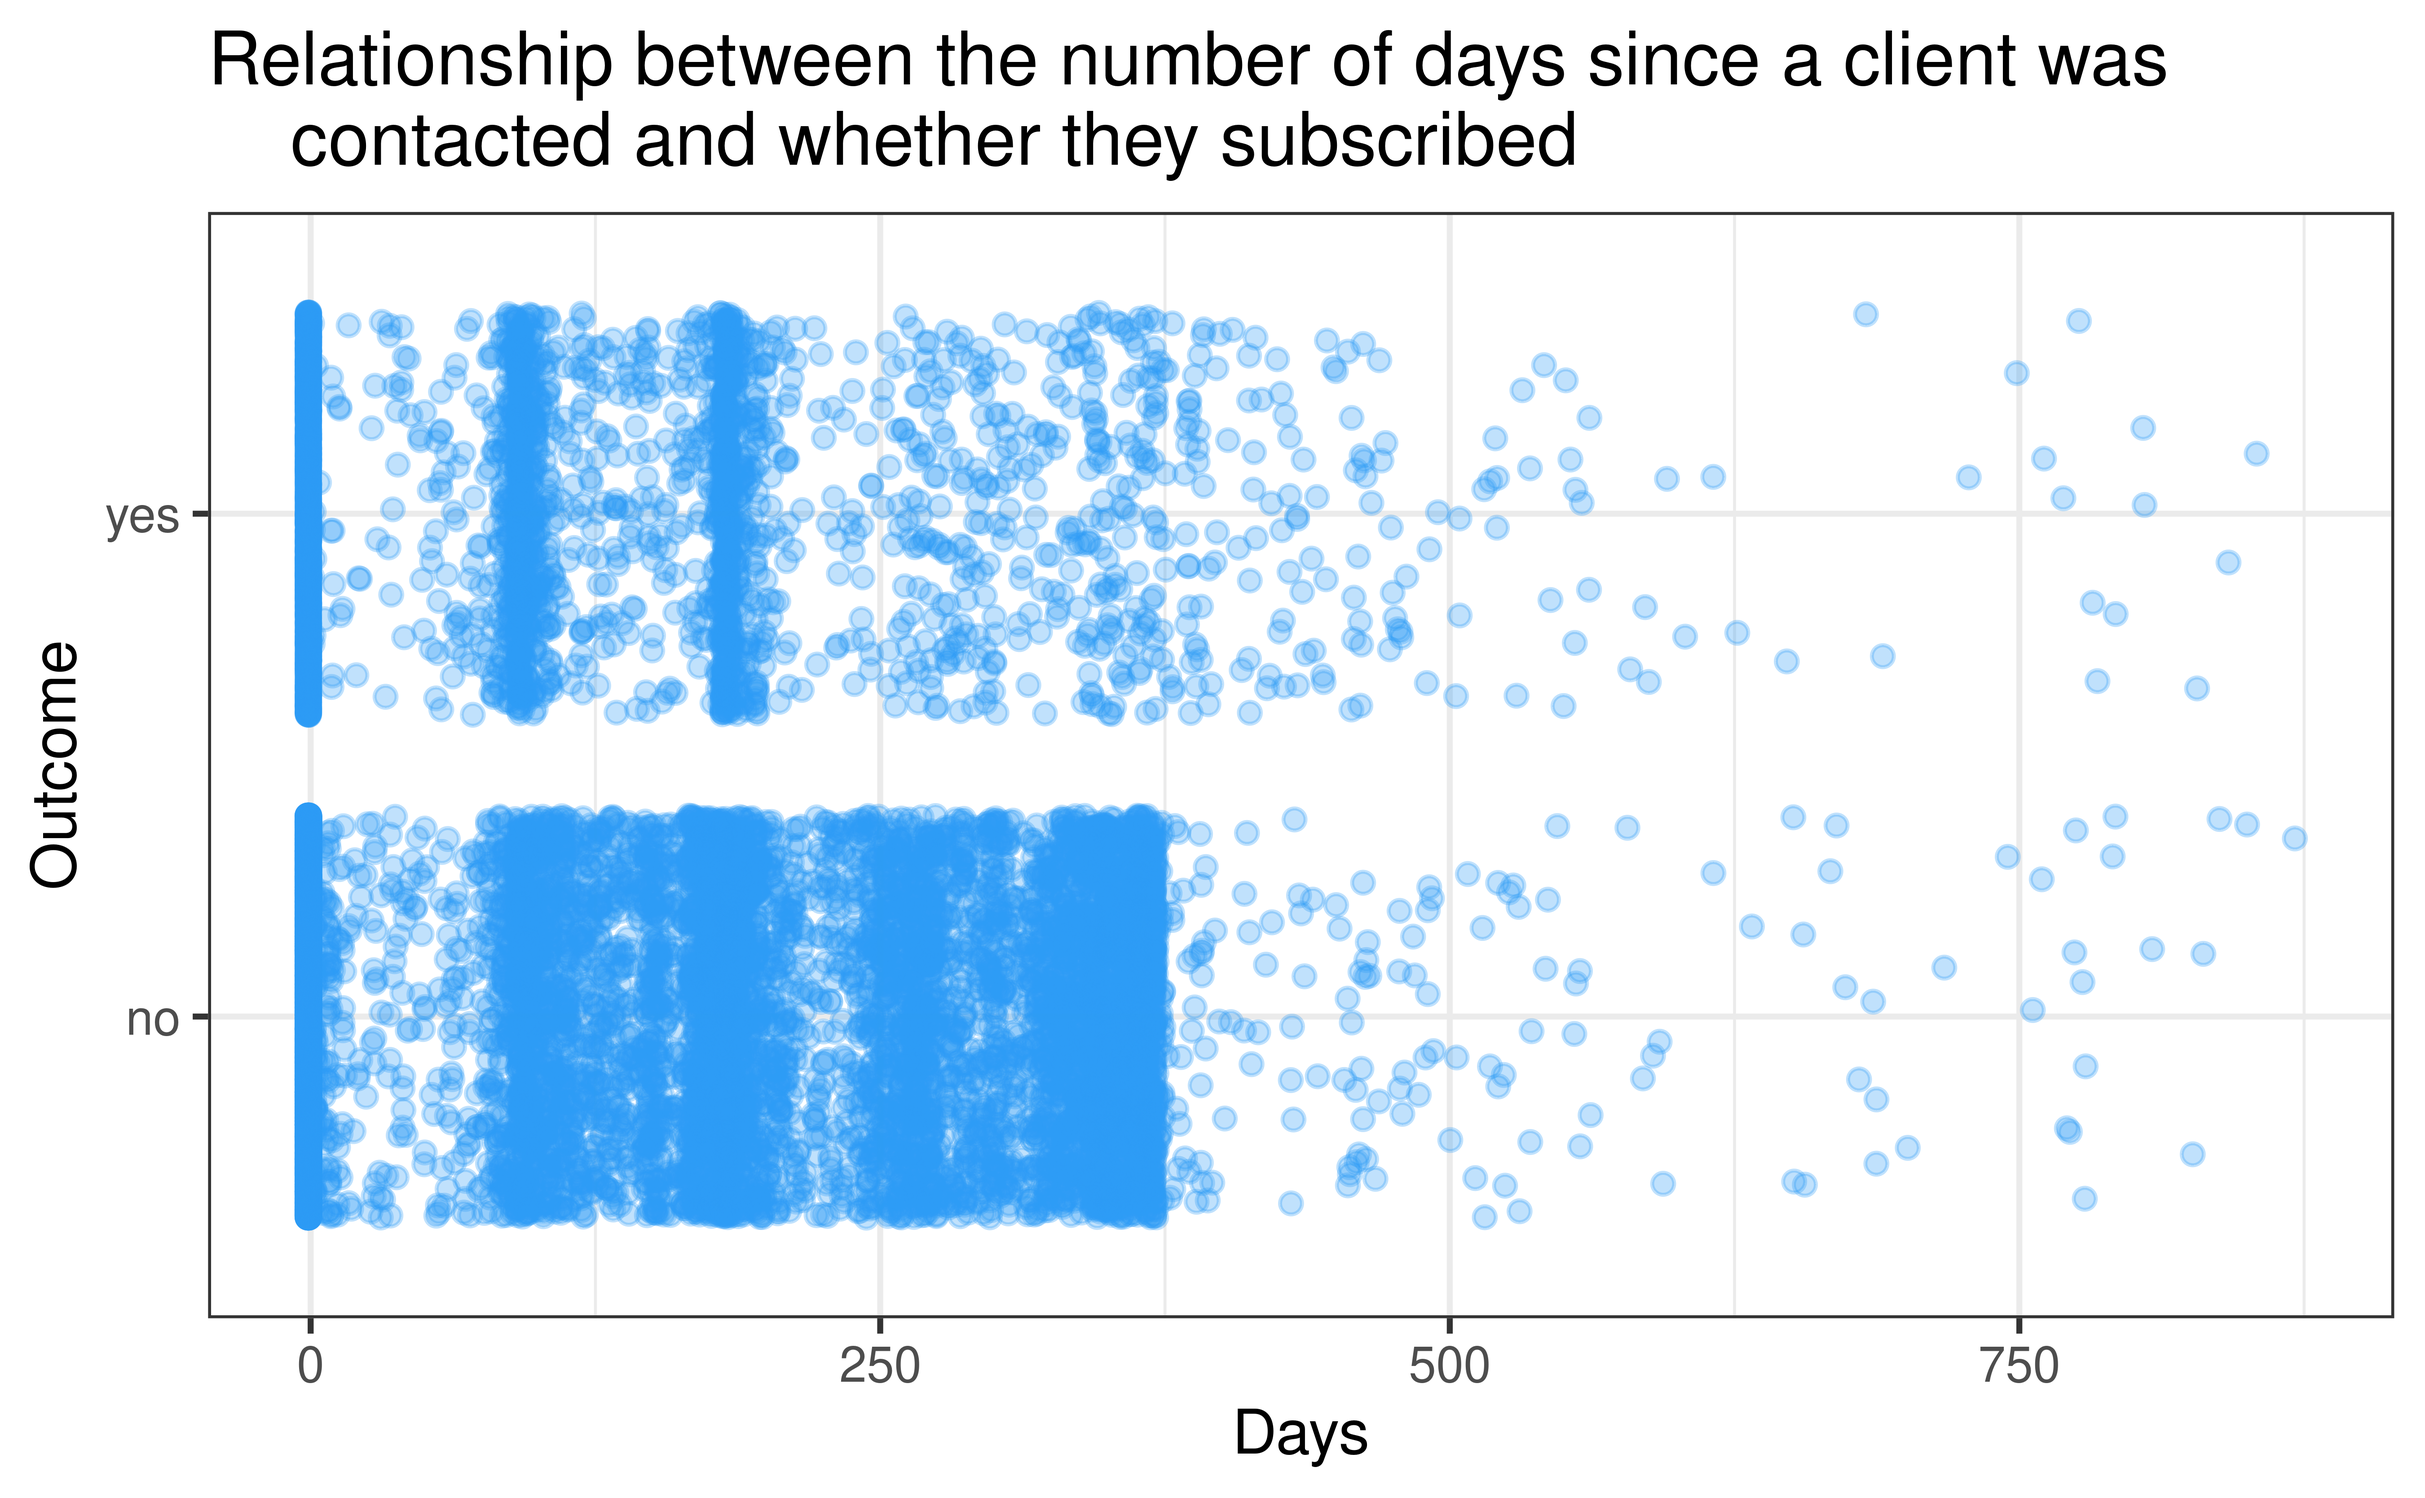
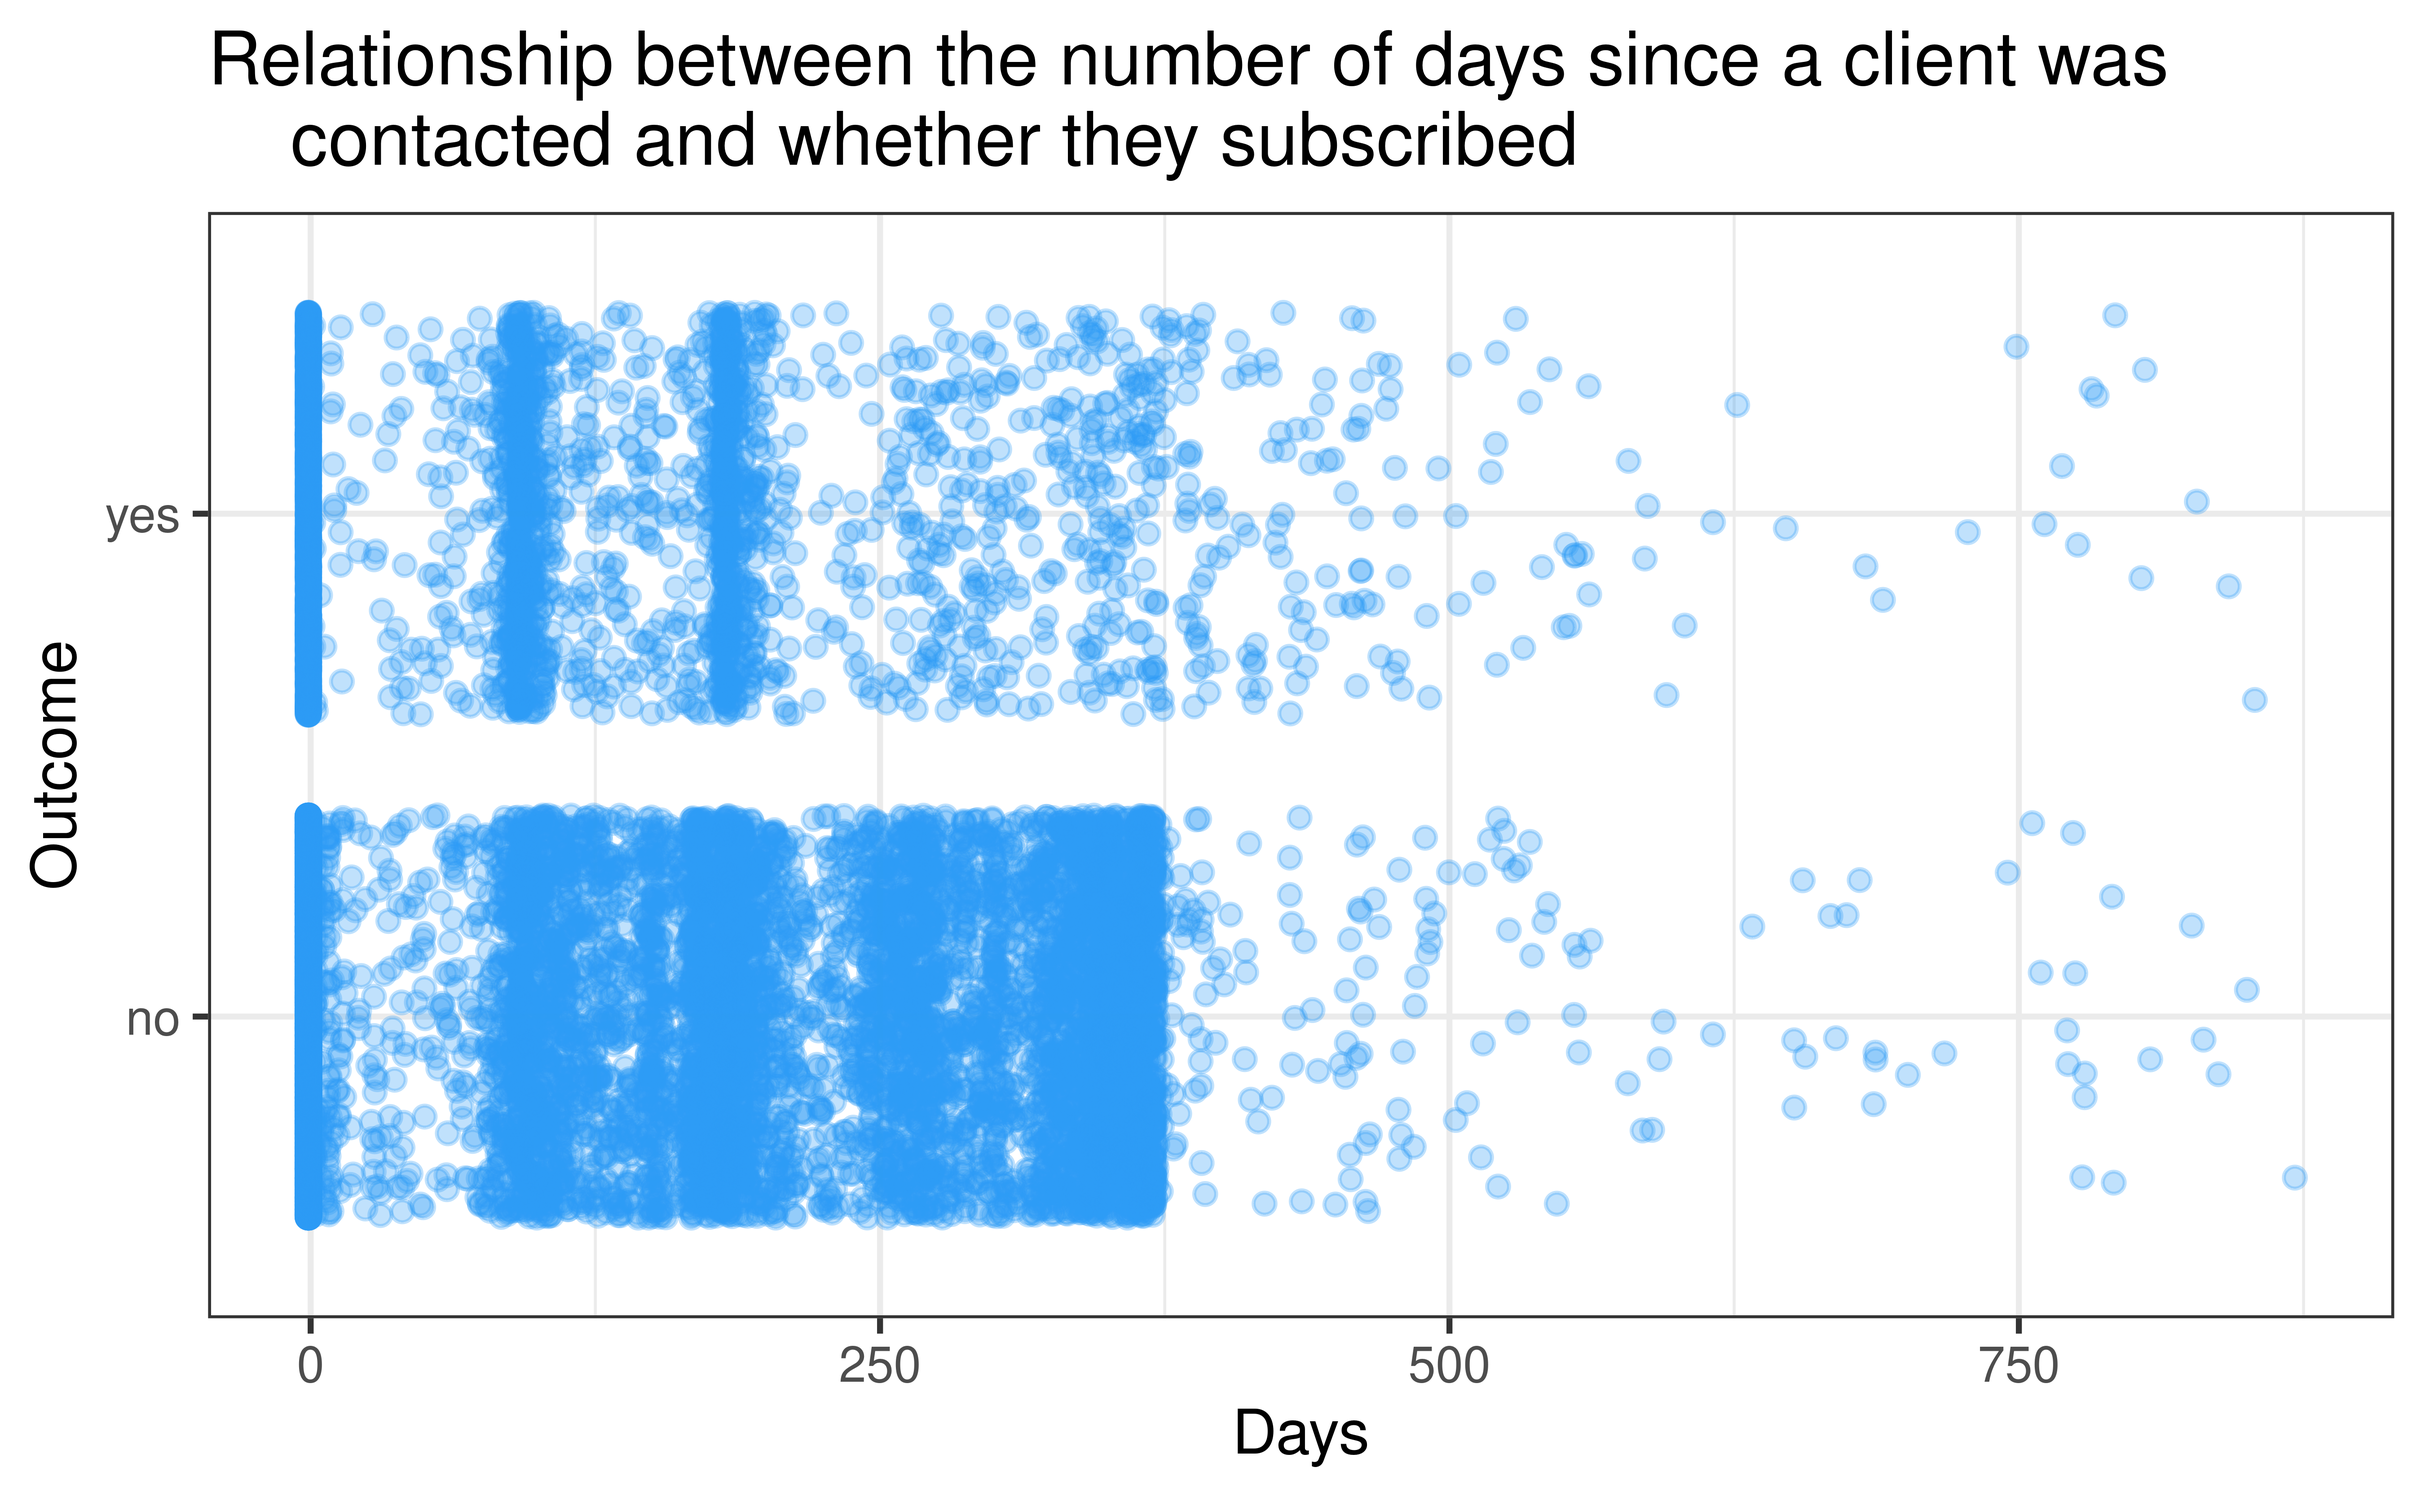
update

diff --git a/README.md b/README.md
@@ -26,16 +26,38 @@ Targets” by Prakhar Rathi and contains data derived from *S. Moro, P.
 Cortez and P. Rita.-A Data-Driven Approach to Predict the Success of
 Bank Telemarketing*.
 
-The first thing we did with the data was a preliminary visualisation,
+The first thing we did with the data was a preliminary visualization,
 which we used to compare the outcome variable with the variables
 themselves. This helped us understand what variables were more important
-in determining whether someone would subscribe to a term deposit.
+in determining whether someone would subscribe to a term deposit. When
+looking at the visualization that generally describes the number of
+clients who subscribed to their term deposit, we can see that the number
+of clients who did not subscribe to their term deposit far outweighs the
+number of clients who did subscribe. This is important to keep in mind
+when looking at how the variables correlate with getting a term deposit
+in the graphs.Firstly looking at the visualization of whether clients
+subscribed or not faceted, we can see that the variable jobs does
+correlate with whether clients subscribe or not, for example the
+students seemingly have a much higher proportion of clients who
+subscribed, then the other observations for jobs.Looking at the next
+graphic of methods of contact versus subscription status, it also
+suggests that methods of contact correlates with whether clients
+subscribed or not. As when clients were contacted through cellular
+devices there was much higher proportion of subscriptions,then when they
+were not.The last model looking at the correlation between number of
+days since they were contacted and whether they subscribed, there is a
+clear correlation.As when the number days increases the proportion of
+clients who subscribed drastically falls, showing there is a clear
+correlation between number of days since a client was contacted and
+whether the client subscribes.
 
 The model we used was 90% effective in determining whether an individual
 will subscribe to a term deposit or not so therefore they are used often
 in banking and other areas however there are many ethical implications
 from this as it is segregating or discriminating racial, age, or job
 groups- the conditions may not be fair.
+
+
 
 ## Presentation
 
